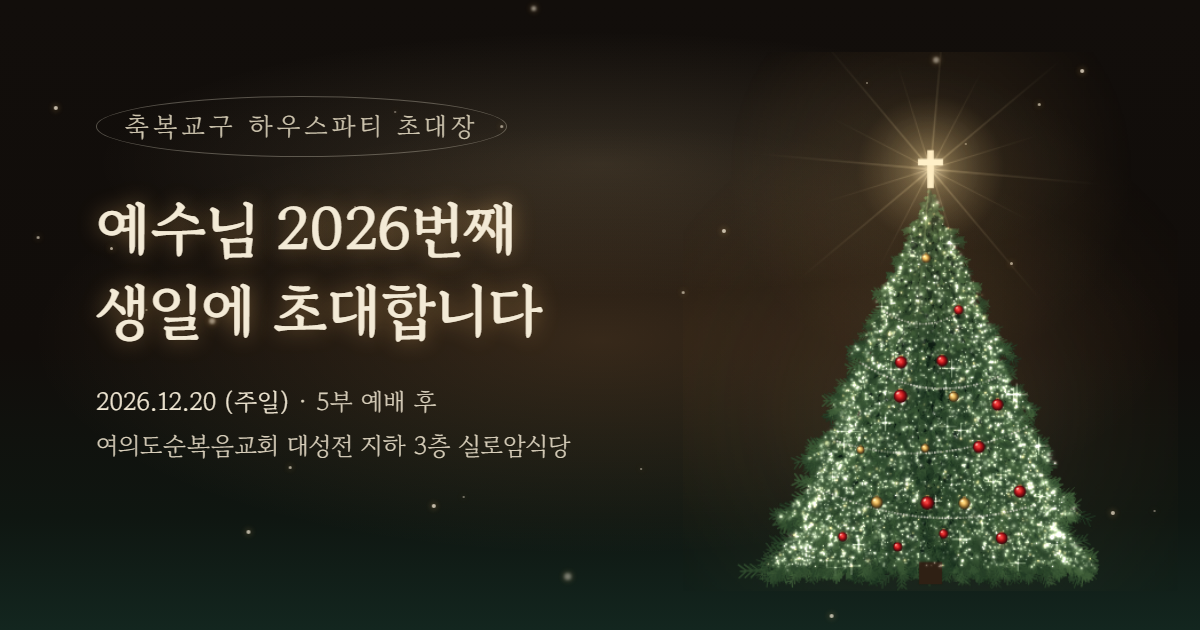
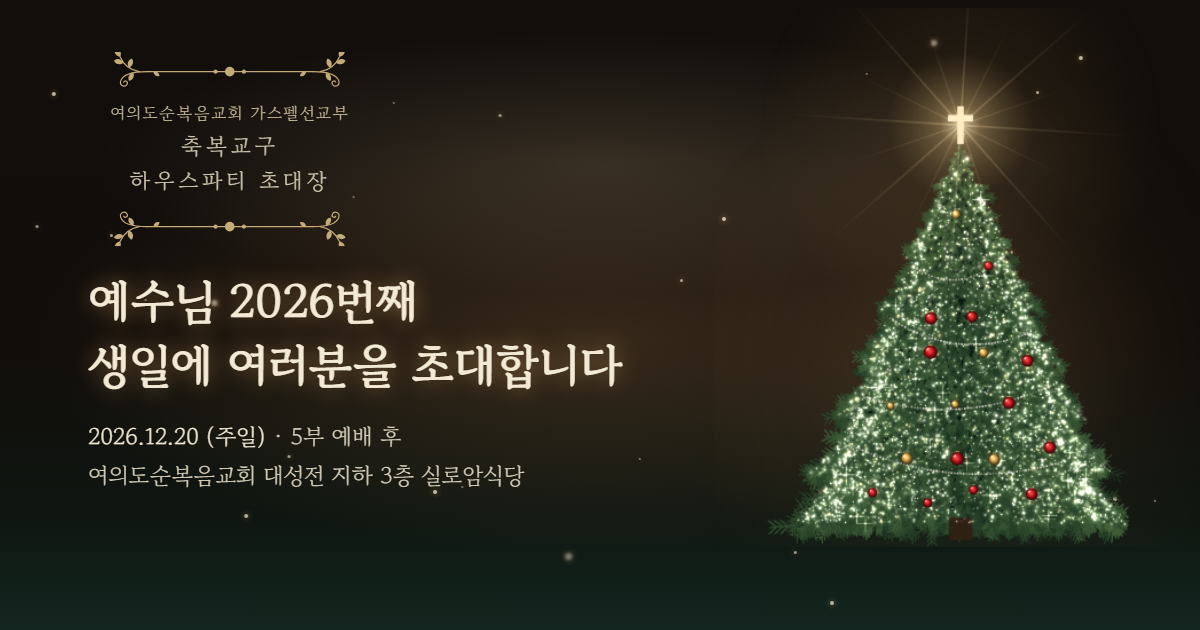
초대장 업데이트 2026-11-25 17:59

diff --git a/index.html b/index.html
@@ -136,11 +136,19 @@
     font-size: .92rem;
     letter-spacing: .14em;
     color: var(--ivory-soft);
-    border: 1px solid rgba(243, 234, 214, .3);
-    border-radius: 50%;
-    padding: .45rem 1.7rem;
     margin: 0;
+    display: grid;
+    justify-items: center;
+    gap: .15rem;
+    text-align: center;
   }
+  .badge p { margin: 0; line-height: 1.5; }
+  .badge .badge__org { font-size: .8em; letter-spacing: .08em; color: #cdbf9f; }
+  .badge .badge__name { font-size: 1.06em; letter-spacing: .16em; }
+  /* 잎사귀 덩굴 장식 — 위아래로 글을 감싼다 (아래는 뒤집어서) */
+  .badge__orn { display: block; width: 13.5em; max-width: 78vw; height: auto; color: #d8bd84; opacity: .9; }
+  .badge__orn--top { margin-bottom: .35em; }
+  .badge__orn--bottom { margin-top: .35em; transform: scaleY(-1); }
   .title {
     position: relative;
     z-index: 2;
@@ -688,6 +696,35 @@
     text-align: center;
   }
 </style>
+<!-- 첫 화면 이름표를 감싸는 잎사귀 덩굴 장식 -->
+<svg width="0" height="0" style="position:absolute" aria-hidden="true">
+  <defs>
+    <path id="leaf" d="M0 0 C2.6 -3.4 7.2 -3.4 9.8 0 C7.2 3.4 2.6 3.4 0 0 Z"/>
+    <g id="flourish-half" fill="none" stroke="currentColor" stroke-width="1.1" stroke-linecap="round">
+      <path d="M54 18 C41 18 32 20.5 30 26.5 C28.6 31 34 33 35.8 29.6 C37.2 26.8 33.8 25.6 32.8 27.6"/>
+      <path d="M47 18 C39 16.5 32.5 11.5 29.5 4.5"/>
+      <g fill="currentColor" stroke="none">
+        <use href="#leaf" transform="translate(29.5 4.5) rotate(-118)"/>
+        <use href="#leaf" transform="translate(32.4 9.8) rotate(-168) scale(.9)"/>
+        <use href="#leaf" transform="translate(37.5 14.4) rotate(-72) scale(.9)"/>
+        <use href="#leaf" transform="translate(41.5 19) rotate(118) scale(.85)"/>
+        <use href="#leaf" transform="translate(60 18) rotate(36) scale(.7)"/>
+      </g>
+    </g>
+    <symbol id="flourish" viewBox="0 0 260 36">
+      <g fill="none" stroke="currentColor" stroke-width="1.1" stroke-linecap="round">
+        <path d="M54 18 H206"/>
+      </g>
+      <g fill="currentColor">
+        <circle cx="130" cy="18" r="4.4"/>
+        <circle cx="117" cy="18" r="1.9"/>
+        <circle cx="143" cy="18" r="1.9"/>
+      </g>
+      <use href="#flourish-half"/>
+      <use href="#flourish-half" transform="translate(260 0) scale(-1 1)"/>
+    </symbol>
+  </defs>
+</svg>
 <div class="sheet">
   <!-- 눈: 화면 전체에 고정 -->
   <div class="snow" aria-hidden="true">
@@ -735,8 +772,14 @@
         <span>QR 공유</span>
       </button>
     </div>
-    <p class="badge">축복교구 하우스파티 초대장</p>
-    <h1 class="title">예수님 2026번째<br>생일에 초대합니다</h1>
+    <div class="badge">
+      <svg class="badge__orn badge__orn--top" viewBox="0 0 260 36" aria-hidden="true"><use href="#flourish"/></svg>
+      <p class="badge__org">여의도순복음교회 가스펠선교부</p>
+      <p class="badge__name">축복교구</p>
+      <p class="badge__name">하우스파티 초대장</p>
+      <svg class="badge__orn badge__orn--bottom" viewBox="0 0 260 36" aria-hidden="true"><use href="#flourish"/></svg>
+    </div>
+    <h1 class="title">예수님 2026번째<br>생일에 여러분을 초대합니다</h1>
     <p class="hint" id="hint">트리 꼭대기 십자가를 누르면 초대장을 볼 수 있어요</p>
     <div class="tree-wrap" id="tree-wrap">
       <canvas class="tree-canvas" id="tree-canvas" role="img" aria-label="작은 전구가 촘촘히 빛나는 성탄 트리와 꼭대기의 십자가"></canvas>
